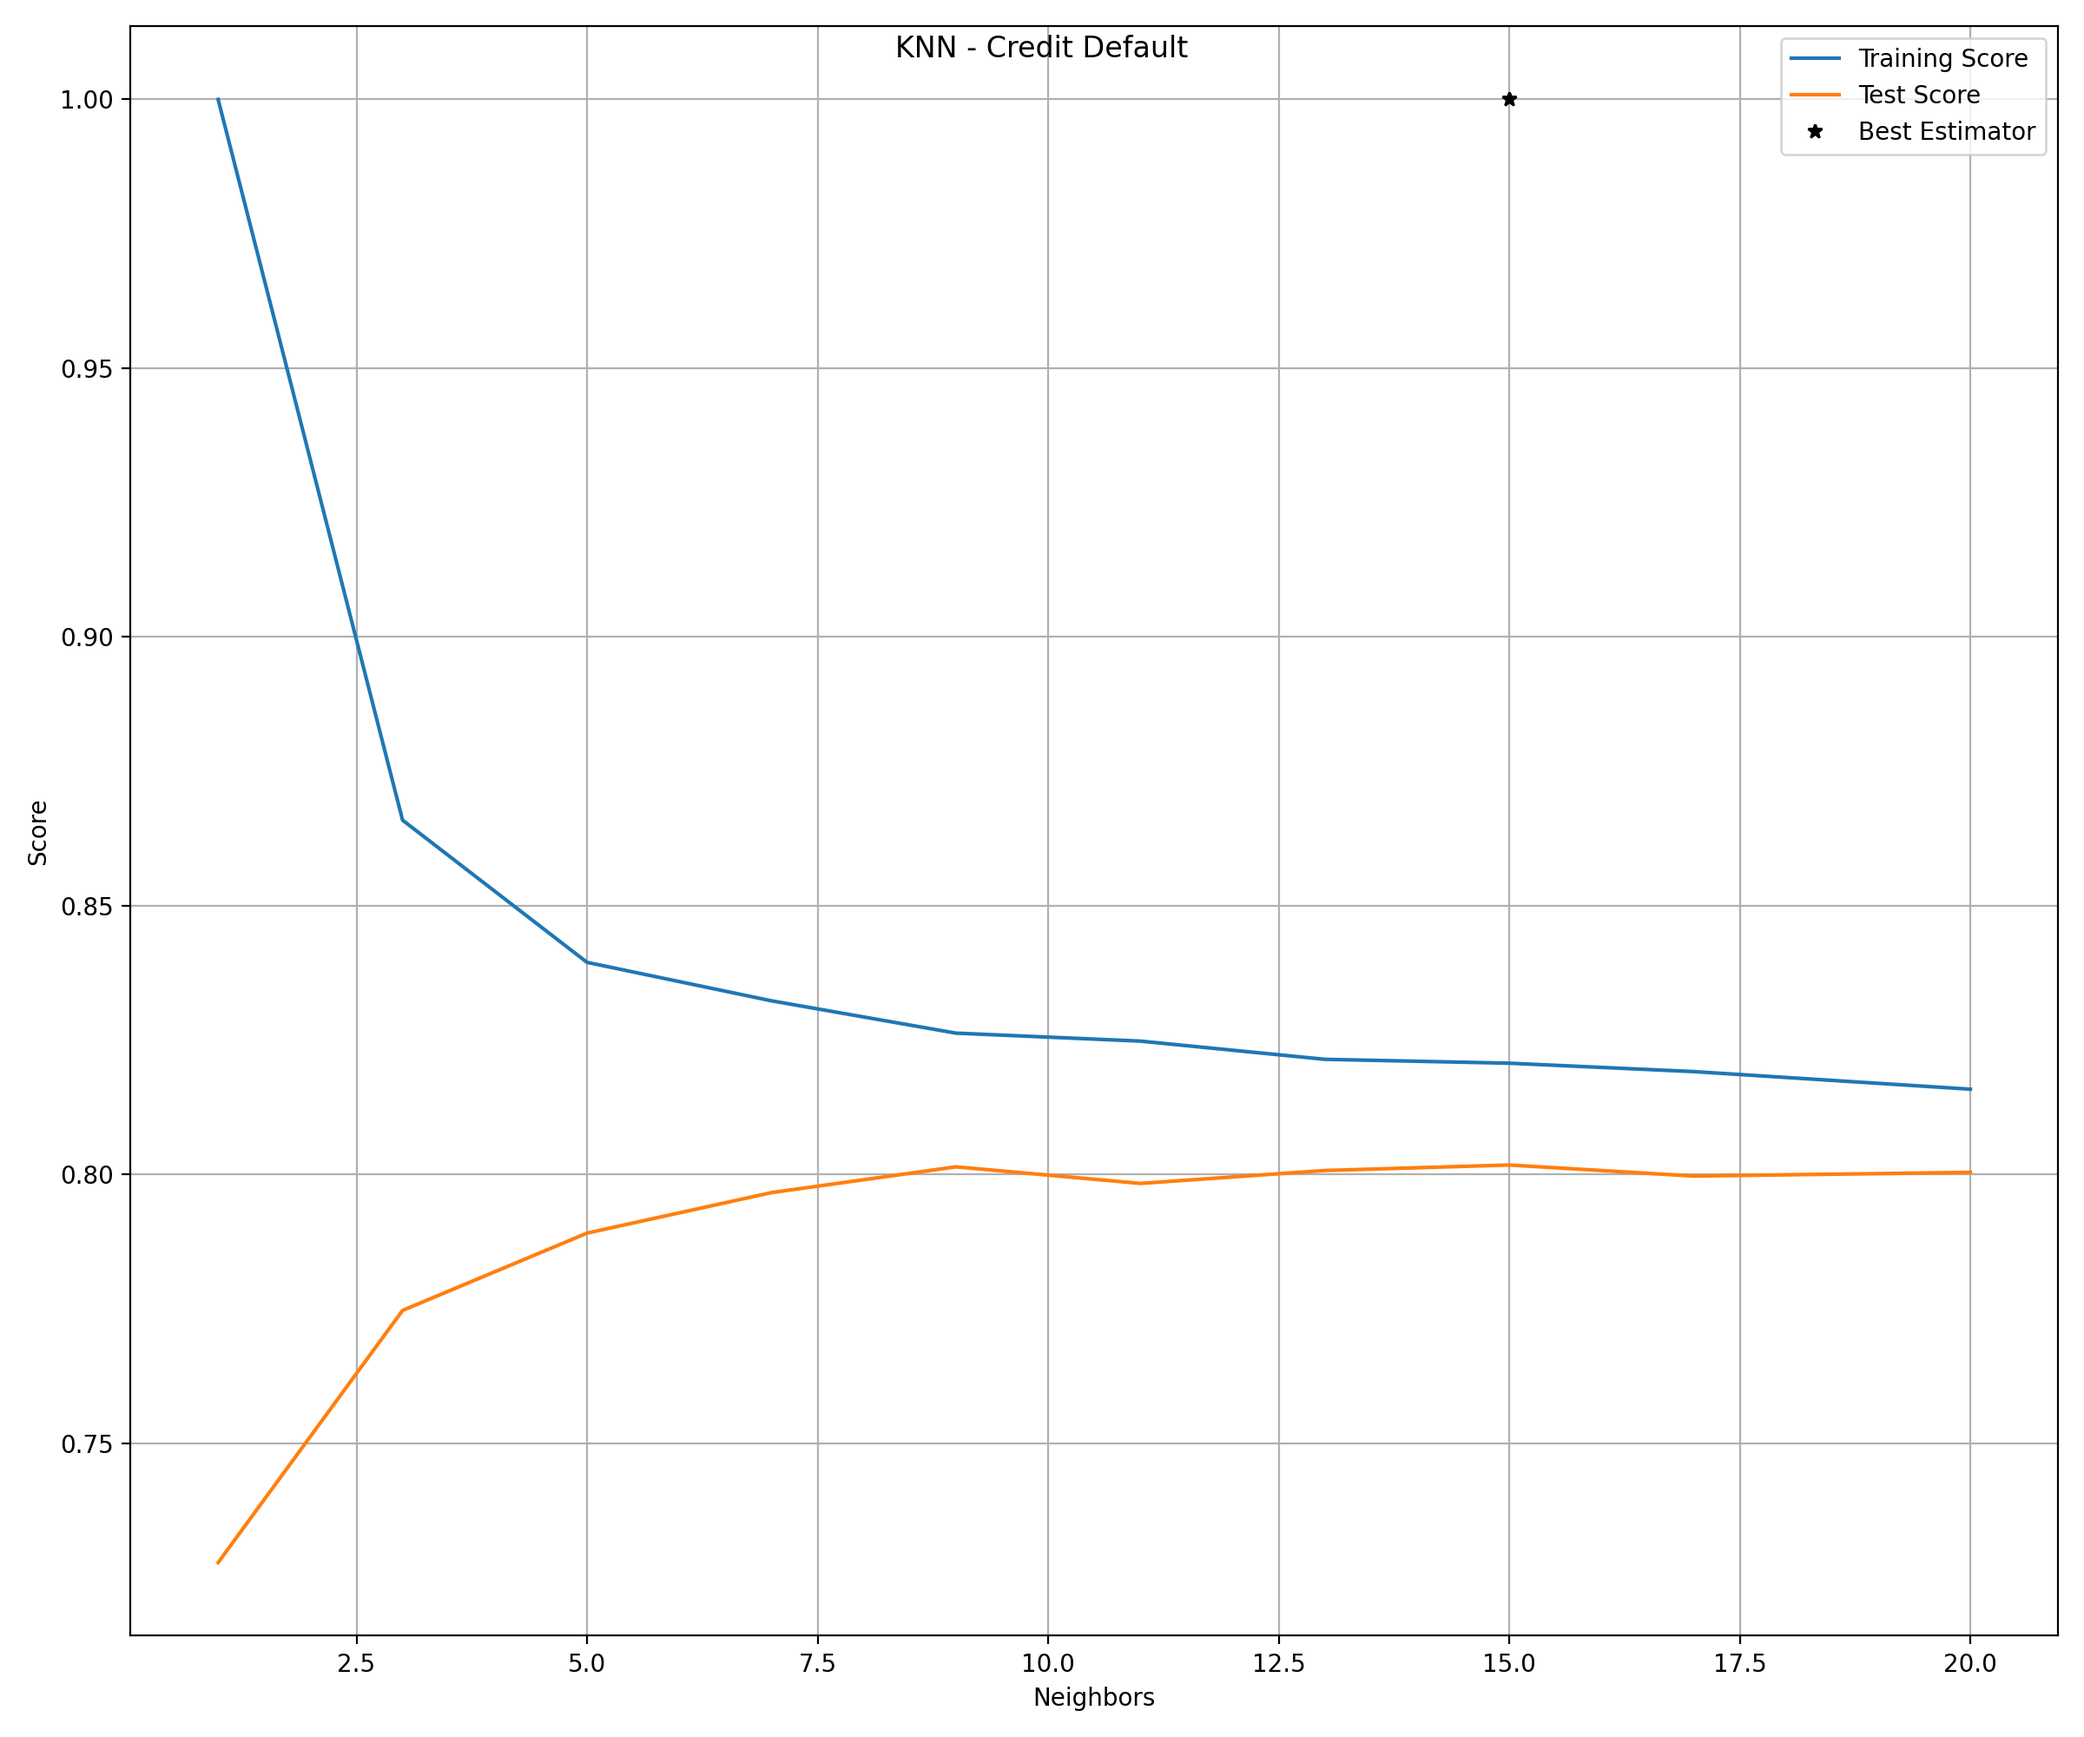
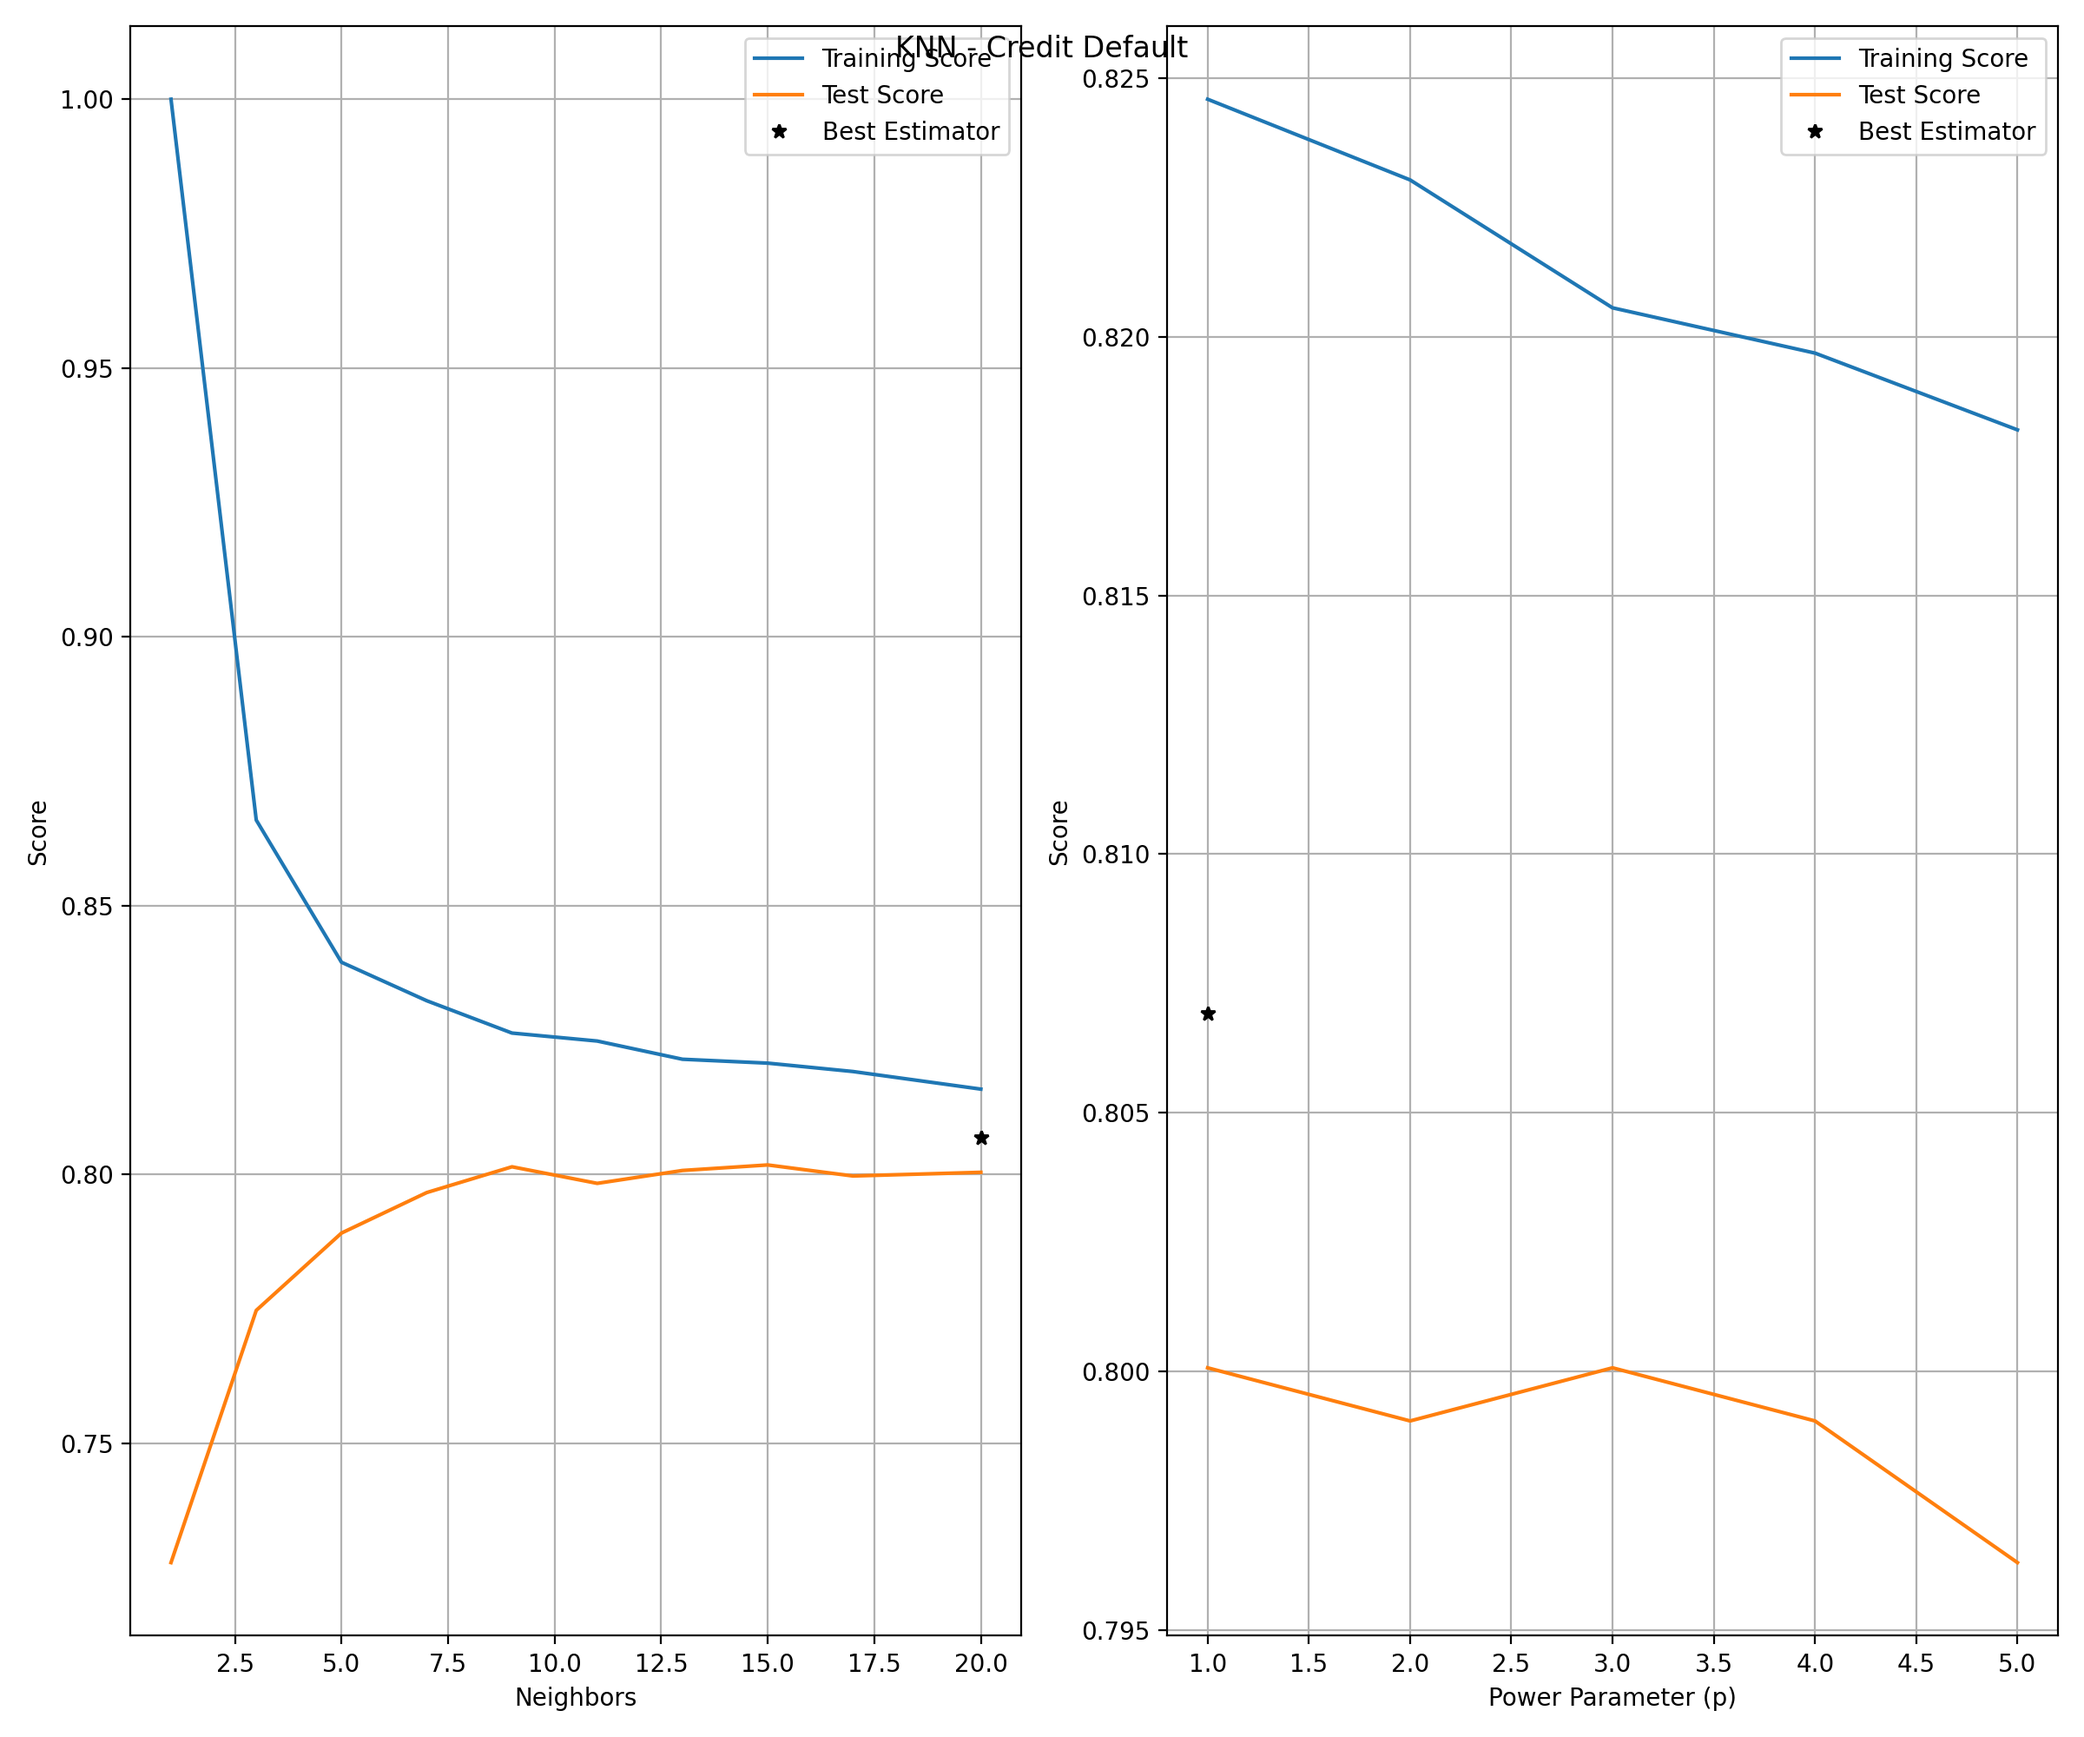
KNN pics

diff --git a/Assignment1/assignment_1.py b/Assignment1/assignment_1.py
@@ -139,7 +139,7 @@ test_size = 0.1
 run_grid_search = True
 
 # Run n_jobs in parallel
-n_jobs = 10
+n_jobs = -8
 
 cores = min(n_jobs,os.cpu_count()) if n_jobs > 0 else max(1,os.cpu_count() + n_jobs) 
 cores_ = f'{cores} cores' if cores > 1 else '1 core'
@@ -1047,7 +1047,7 @@ for DataSetName, ds in datasets.items():
 ks = list(map(int,np.linspace(1,20,10)))
 w_ = ['uniform','distance']
 algo_ = ['ball_tree','kd_tree','brute']
-p_ = np.linspace(1,5,13)
+p_ = list(map(int,np.linspace(1,5,5)))
 
 vPrint('Starting experiment 5')
 for DataSetName, ds in datasets.items():
@@ -1080,9 +1080,9 @@ for DataSetName, ds in datasets.items():
                                      )
         timefit(model,args=(Xtrain,Ytrain))
         start = time()
-        knn_score_in_.append(model.score(Xtrain,Ytrain))
+        knn_score_in_.append(timescore(model,args=(Xtrain,Ytrain))[1])
         end = time()
-        knn_score_out_.append(model.score(Xtest,Ytest))
+        knn_score_out_.append(timescore(model,args=(Xtest,Ytest))[1])
         end2 = time()
         
     knn_score_in_p = []
